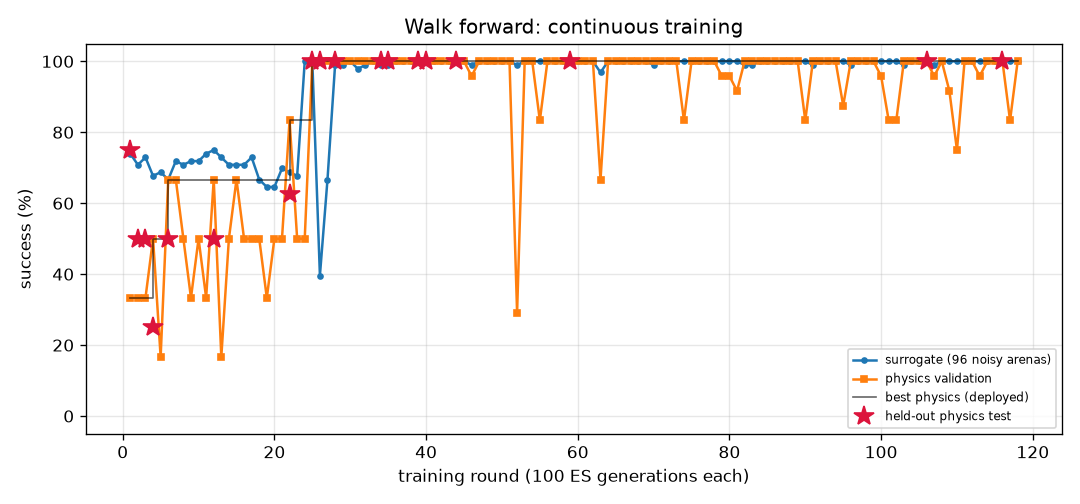
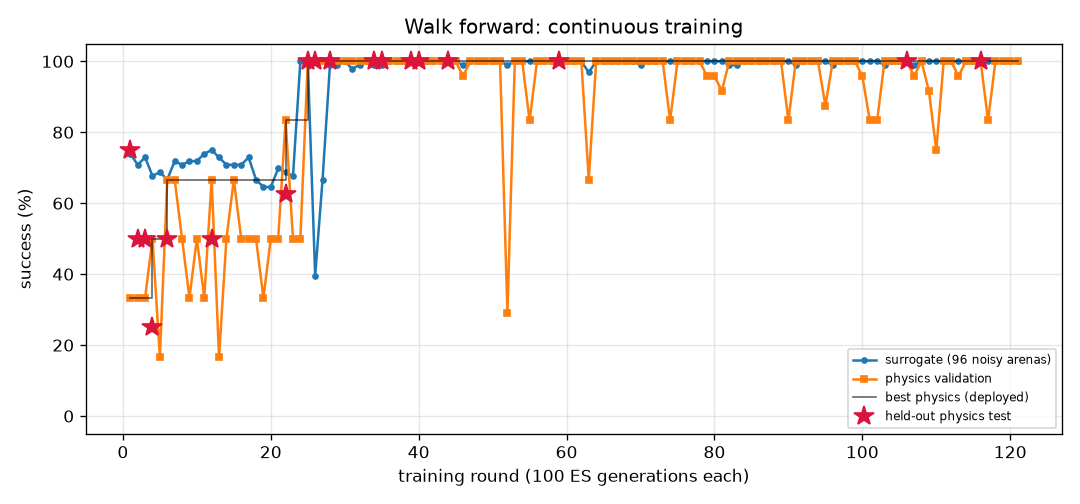
FlyLab: daily review 2026-10-18 — training output

diff --git a/projects/09_flylab/training/walk_forward/REPORT.md b/projects/09_flylab/training/walk_forward/REPORT.md
@@ -1,14 +1,14 @@
 # Walk forward (`walk_forward`) — training report
 
-*Auto-generated by `train_brains.py`, last updated 2026-10-17T20:02:27.*
+*Auto-generated by `train_brains.py`, last updated 2026-10-18T14:39:42.*
 
 ![curve](curve.png)
 
 | | |
 |---|---|
-| rounds | 118 |
-| ES generations | 11800 |
-| physics runs | 2846 |
+| rounds | 121 |
+| ES generations | 12100 |
+| physics runs | 2918 |
 | status | **optimal** |
 | best brain | round 116: physics validation **100%** on 24 arenas, surrogate 100% |
 | held-out physics test | **100%** on 32 unseen arenas (95% CI 89%-100%) (errors: [0.13, 0.16, 0.19, 0.16, 0.15, 0.2, 0.17, 0.18, 0.17, 0.19, 0.2, 0.14, 0.17, 0.19, 0.2, 0.2, 0.13, 0.19, 0.16, 0.2, 0.2, 0.16, 0.17, 0.2, 0.13, 0.15, 0.18, 0.14, 0.16, 0.15, 0.19, 0.12]) |
@@ -17,9 +17,6 @@ Physics error per arena: mm from target at the end (< 1.5 and standing still = s
 
 | round | level | gens | sigma | surrogate | physics val | val errors | test | note |
 |---:|---:|---:|---:|---:|---:|---|---:|---|
-| 79 | 3 | 7900 | 0.024 | 100% | 96% | [0.19, 0.4, 0.06, 0.18, 0.39, 0.08, 0.4, 0.09, 0.39, 0.25, 0.01, 0.34, 0.07, 0.09, 0.19, 0.29, 0.1, 0.37, 0.1, 0.21, 0.15, 0.25, 0.35, 0.05] |  | restart from best |
-| 80 | 3 | 8000 | 0.024 | 100% | 96% | [0.23, 0.31, 0.08, 0.23, 0.31, 0.22, 0.3, 0.12, 0.3, 0.31, 0.23, 0.29, 0.19, 0.21, 0.25, 0.3, 0.22, 0.29, 0.4, 0.27, 0.2, 0.3, 0.28, 0.15] |  |  |
-| 81 | 3 | 8100 | 0.024 | 100% | 92% | [0.06, 0.19, 0.1, 0.07, 0.19, 0.08, 0.2, 0.1, 0.19, 0.22, 3.44, 0.17, 0.04, 0.07, 0.13, 0.17, 0.08, 0.16, 0.09, 0.14, 0.08, 0.21, 0.17, 1.28] |  |  |
 | 82 | 3 | 8200 | 0.024 | 99% | 100% | [0.17, 0.28, 0.25, 0.17, 0.28, 0.25, 0.29, 0.24, 0.28, 0.3, 0.26, 0.27, 0.24, 0.25, 0.18, 0.28, 0.19, 0.24, 0.22, 0.19, 0.22, 0.29, 0.27, 0.24] |  |  |
 | 83 | 3 | 8300 | 0.025 | 99% | 100% | [0.22, 0.3, 0.32, 0.23, 0.3, 0.29, 0.32, 0.29, 0.31, 0.36, 0.29, 0.35, 0.29, 0.3, 0.22, 0.36, 0.25, 0.26, 0.29, 0.22, 0.28, 0.36, 0.34, 0.29] |  | restart from best |
 | 84 | 3 | 8400 | 0.024 | 100% | 100% | [0.16, 0.25, 0.09, 0.15, 0.24, 0.08, 0.23, 0.17, 0.22, 0.18, 0.07, 0.2, 0.16, 0.09, 0.17, 0.16, 0.14, 0.19, 0.17, 0.17, 0.18, 0.19, 0.22, 0.16] |  |  |
@@ -57,3 +54,6 @@ Physics error per arena: mm from target at the end (< 1.5 and standing still = s
 | 116 | 3 | 11600 | 0.024 | 100% | 100% | [0.2, 0.2, 0.15, 0.2, 0.2, 0.13, 0.2, 0.16, 0.2, 0.19, 0.13, 0.17, 0.17, 0.14, 0.2, 0.18, 0.19, 0.2, 0.17, 0.2, 0.18, 0.19, 0.17, 0.17] | 100% | new best |
 | 117 | 3 | 11700 | 0.024 | 100% | 83% | [0.1, 0.14, 0.03, 0.09, 0.14, 0.79, 0.14, 0.04, 0.14, 0.13, 0.16, 0.06, 0.38, 2.39, 0.13, 0.1, 0.05, 0.14, 0.03, 0.13, 0.07, 0.08, 0.08, 0.08] |  |  |
 | 118 | 3 | 11800 | 0.024 | 100% | 100% | [0.21, 0.17, 0.12, 0.15, 0.22, 0.18, 0.16, 0.19, 0.17, 0.19, 0.13, 0.21, 0.19, 0.18, 0.22, 0.21, 0.21, 0.21, 0.2, 0.22, 0.2, 0.18, 0.22, 0.18] |  |  |
+| 119 | 3 | 11900 | 0.024 | 100% | 100% | [0.26, 0.3, 0.23, 0.26, 0.3, 0.22, 0.3, 0.24, 0.29, 0.28, 0.22, 0.26, 0.23, 0.22, 0.27, 0.27, 0.26, 0.29, 0.24, 0.28, 0.26, 0.27, 0.25, 0.23] |  |  |
+| 120 | 3 | 12000 | 0.024 | 100% | 100% | [0.31, 0.36, 0.29, 0.31, 0.35, 0.29, 0.36, 0.3, 0.35, 0.35, 0.29, 0.34, 0.3, 0.29, 0.33, 0.35, 0.32, 0.35, 0.29, 0.33, 0.3, 0.36, 0.34, 0.3] |  | restart from best |
+| 121 | 3 | 12100 | 0.024 | 100% | 100% | [0.15, 0.16, 0.11, 0.14, 0.21, 0.1, 0.16, 0.09, 0.17, 0.33, 0.09, 0.15, 0.09, 0.11, 0.18, 0.23, 0.13, 0.17, 0.1, 0.15, 0.13, 0.32, 0.14, 0.12] |  |  |

diff --git a/projects/09_flylab/training/goto/REPORT.md b/projects/09_flylab/training/goto/REPORT.md
@@ -1,14 +1,14 @@
 # Go to a location (`goto`) — training report
 
-*Auto-generated by `train_brains.py`, last updated 2026-10-18T13:27:41.*
+*Auto-generated by `train_brains.py`, last updated 2026-10-18T14:01:48.*
 
 ![curve](curve.png)
 
 | | |
 |---|---|
-| rounds | 113 |
-| ES generations | 11300 |
-| physics runs | 2598 |
+| rounds | 114 |
+| ES generations | 11400 |
+| physics runs | 2622 |
 | status | **optimal** |
 | best brain | round 80: physics validation **100%** on 24 arenas, surrogate 100% |
 | held-out physics test | **100%** on 32 unseen arenas (95% CI 89%-100%) (errors: [0.36, 0.41, 0.3, 0.45, 0.32, 0.33, 0.33, 0.31, 0.35, 0.36, 0.39, 0.36, 0.28, 0.31, 0.4, 0.39, 0.34, 0.39, 0.3, 0.34, 0.36, 0.36, 0.44, 0.34, 0.3, 0.33, 0.4, 0.33, 0.29, 0.43, 0.43, 0.39]) |
@@ -17,7 +17,6 @@ Physics error per arena: mm from target at the end (< 1.5 and standing still = s
 
 | round | level | gens | sigma | surrogate | physics val | val errors | test | note |
 |---:|---:|---:|---:|---:|---:|---|---:|---|
-| 74 | 3 | 7400 | 0.024 | 100% | 100% | [0.68, 0.66, 0.49, 0.51, 0.52, 0.5, 0.67, 0.59, 0.53, 0.51, 0.53, 0.5, 0.57, 0.51, 0.55, 0.63, 0.59, 0.52, 0.51, 0.54, 0.6, 0.51, 0.59, 0.49] |  | restart from best |
 | 75 | 3 | 7500 | 0.024 | 100% | 100% | [0.77, 0.76, 0.58, 0.59, 0.58, 0.61, 0.72, 0.65, 0.63, 0.58, 0.57, 0.59, 0.69, 0.56, 0.58, 0.68, 0.72, 0.65, 0.59, 0.65, 0.65, 0.58, 0.69, 0.6] |  |  |
 | 76 | 3 | 7600 | 0.024 | 100% | 100% | [0.6, 0.56, 0.42, 0.45, 0.54, 0.45, 0.6, 0.45, 0.5, 0.42, 0.49, 0.44, 0.55, 0.39, 0.45, 0.46, 0.59, 0.46, 0.43, 0.48, 0.45, 0.43, 0.55, 0.43] |  |  |
 | 77 | 3 | 7700 | 0.024 | 99% | 100% | [0.45, 0.46, 0.32, 0.35, 0.44, 0.34, 0.46, 0.33, 0.43, 0.32, 0.41, 0.33, 0.41, 0.33, 0.38, 0.38, 0.48, 0.34, 0.32, 0.38, 0.37, 0.31, 0.45, 0.34] |  |  |
@@ -57,3 +56,4 @@ Physics error per arena: mm from target at the end (< 1.5 and standing still = s
 | 111 | 3 | 11100 | 0.025 | 100% | 100% | [0.44, 0.45, 0.37, 0.42, 0.34, 0.41, 0.42, 0.45, 0.46, 0.34, 0.36, 0.41, 0.47, 0.39, 0.45, 0.39, 0.47, 0.39, 0.33, 0.44, 0.38, 0.34, 0.48, 0.45] |  |  |
 | 112 | 3 | 11200 | 0.024 | 100% | 100% | [0.49, 0.46, 0.43, 0.37, 0.39, 0.34, 0.5, 0.37, 0.4, 0.37, 0.36, 0.37, 0.43, 0.35, 0.43, 0.43, 0.46, 0.34, 0.37, 0.4, 0.41, 0.36, 0.43, 0.36] |  | restart from best |
 | 113 | 3 | 11300 | 0.024 | 99% | 100% | [0.44, 0.39, 0.28, 0.36, 0.29, 0.31, 0.39, 0.35, 0.37, 0.32, 0.31, 0.35, 0.39, 0.32, 0.37, 0.36, 0.46, 0.36, 0.3, 0.4, 0.33, 0.32, 0.43, 0.34] |  |  |
+| 114 | 3 | 11400 | 0.025 | 100% | 100% | [0.46, 0.45, 0.37, 0.42, 0.33, 0.41, 0.42, 0.48, 0.46, 0.32, 0.34, 0.4, 0.48, 0.37, 0.36, 0.4, 0.48, 0.41, 0.33, 0.46, 0.39, 0.33, 0.49, 0.41] |  |  |

diff --git a/projects/09_flylab/training/odor_seek/REPORT.md b/projects/09_flylab/training/odor_seek/REPORT.md
@@ -1,14 +1,14 @@
 # Find food by smell (`odor_seek`) — training report
 
-*Auto-generated by `train_brains.py`, last updated 2026-10-17T21:12:27.*
+*Auto-generated by `train_brains.py`, last updated 2026-10-18T14:34:06.*
 
 ![curve](curve.png)
 
 | | |
 |---|---|
-| rounds | 107 |
-| ES generations | 10700 |
-| physics runs | 1934 |
+| rounds | 108 |
+| ES generations | 10800 |
+| physics runs | 1958 |
 | status | **optimal** |
 | best brain | round 99: physics validation **100%** on 24 arenas, surrogate 100% |
 | held-out physics test | **100%** on 32 unseen arenas (95% CI 89%-100%) (errors: [0.16, 0.18, 0.15, 0.21, 0.19, 0.16, 0.21, 0.2, 0.2, 0.18, 0.15, 0.18, 0.15, 0.2, 0.18, 0.19, 0.13, 0.16, 0.2, 0.2, 0.21, 0.15, 0.2, 0.17, 0.19, 0.25, 0.15, 0.19, 0.26, 0.16, 0.2, 0.26]) |
@@ -17,7 +17,6 @@ Physics error per arena: mm from target at the end (< 1.5 and standing still = s
 
 | round | level | gens | sigma | surrogate | physics val | val errors | test | note |
 |---:|---:|---:|---:|---:|---:|---|---:|---|
-| 68 | 3 | 6800 | 0.024 | 100% | 100% | [0.3, 0.26, 0.23, 0.13, 0.25, 0.27, 0.34, 0.24, 0.26, 0.25, 0.25, 0.32, 0.26, 0.29, 0.27, 0.3, 0.3, 0.22, 0.23, 0.3, 0.3, 0.29, 0.29, 0.25] | 100% | new best |
 | 69 | 3 | 6900 | 0.024 | 100% | 100% | [0.3, 0.35, 0.3, 0.27, 0.29, 0.25, 0.34, 0.26, 0.26, 0.28, 0.3, 0.32, 0.24, 0.35, 0.31, 0.22, 0.32, 0.32, 0.27, 0.28, 0.24, 0.31, 0.24, 0.26] |  |  |
 | 70 | 3 | 7000 | 0.024 | 100% | 100% | [0.21, 0.25, 0.21, 0.3, 0.25, 0.28, 0.25, 0.22, 0.24, 0.29, 0.28, 0.28, 0.24, 0.22, 0.34, 0.25, 0.27, 0.25, 0.33, 0.26, 0.24, 0.26, 0.26, 0.24] |  |  |
 | 71 | 3 | 7100 | 0.024 | 100% | 100% | [0.21, 0.26, 0.27, 0.24, 0.23, 0.24, 0.23, 0.2, 0.28, 0.27, 0.28, 0.27, 0.24, 0.27, 0.21, 0.29, 0.25, 0.24, 0.24, 0.28, 0.27, 0.23, 0.25, 0.23] |  |  |
@@ -57,3 +56,4 @@ Physics error per arena: mm from target at the end (< 1.5 and standing still = s
 | 105 | 3 | 10500 | 0.024 | 100% | 100% | [0.21, 0.2, 0.21, 0.22, 0.22, 0.17, 0.21, 0.19, 0.28, 0.27, 0.16, 0.21, 0.25, 0.21, 0.19, 0.21, 0.2, 0.2, 0.17, 0.22, 0.19, 0.22, 0.23, 0.16] |  |  |
 | 106 | 3 | 10600 | 0.024 | 100% | 100% | [0.21, 0.24, 0.15, 0.21, 0.21, 0.2, 0.22, 0.16, 0.18, 0.2, 0.16, 0.28, 0.21, 0.2, 0.26, 0.26, 0.24, 0.27, 0.29, 0.22, 0.17, 0.21, 0.16, 0.18] |  |  |
 | 107 | 3 | 10700 | 0.024 | 100% | 100% | [0.28, 0.28, 0.25, 0.29, 0.2, 0.24, 0.23, 0.26, 0.25, 0.22, 0.24, 0.21, 0.25, 0.22, 0.22, 0.18, 0.22, 0.24, 0.29, 0.23, 0.19, 0.18, 0.23, 0.2] |  | restart from best |
+| 108 | 3 | 10800 | 0.024 | 100% | 100% | [0.22, 0.2, 0.15, 0.28, 0.16, 0.17, 0.18, 0.15, 0.12, 0.14, 0.19, 0.16, 0.16, 0.15, 0.16, 0.12, 0.13, 0.13, 0.18, 0.18, 0.29, 0.26, 0.21, 0.22] |  |  |

diff --git a/projects/09_flylab/training/TRAINING.md b/projects/09_flylab/training/TRAINING.md
@@ -1,15 +1,15 @@
 # FlyLab brains — continuous training log
 
-*Auto-generated by `train_brains.py`, last updated 2026-10-18T13:41:15.*
+*Auto-generated by `train_brains.py`, last updated 2026-10-18T14:39:42.*
 
 Every skill has its own brain and its own training process: surrogate ES rounds, physics validation in MuJoCo, keep-the-best selection, and a held-out physics test that is never used for selection. See each skill's report for its full round-by-round history. Mastery is progressive: passing a level (100% physics validation, >=95% surrogate) doubles the validation and test arena sets; a brain is **optimal** once it holds up at level 3 (>=95% of 24 validation arenas) AND scores >=90% on the 32 held-out test arenas. Test columns show 95% Wilson confidence intervals.
 
 | skill | rounds | ES generations | physics runs | surrogate | physics val | **physics test** | status |
 |---|---:|---:|---:|---:|---:|---:|---|
-| [Walk forward](walk_forward/REPORT.md) | 118 | 11800 | 2846 | 100% | 100% of 24 | 100% of 32 (CI 89-100%) | **optimal** |
+| [Walk forward](walk_forward/REPORT.md) | 121 | 12100 | 2918 | 100% | 100% of 24 | 100% of 32 (CI 89-100%) | **optimal** |
 | [Turn in place](turn/REPORT.md) | 532 | 53200 | 13014 | 100% | 100% of 24 | 97% of 32 (CI 84-99%) | **optimal** |
-| [Go to a location](goto/REPORT.md) | 113 | 11300 | 2598 | 100% | 100% of 24 | 100% of 32 (CI 89-100%) | **optimal** |
-| [Find food by smell](odor_seek/REPORT.md) | 107 | 10700 | 1934 | 100% | 100% of 24 | 100% of 32 (CI 89-100%) | **optimal** |
+| [Go to a location](goto/REPORT.md) | 114 | 11400 | 2622 | 100% | 100% of 24 | 100% of 32 (CI 89-100%) | **optimal** |
+| [Find food by smell](odor_seek/REPORT.md) | 108 | 10800 | 1958 | 100% | 100% of 24 | 100% of 32 (CI 89-100%) | **optimal** |
 | [Escape a bad smell](odor_avoid/REPORT.md) | 531 | 53100 | 10050 | 97% | 100% of 24 | 97% of 32 (CI 84-99%) | **optimal** |
 | [Walk toward light](light_seek/REPORT.md) | 299 | 29900 | 4024 | 100% | 100% of 24 | 100% of 32 (CI 89-100%) | **optimal** |
 | [Hide from light](light_avoid/REPORT.md) | 265 | 26500 | 6632 | 100% | 100% of 24 | 100% of 32 (CI 89-100%) | **optimal** |
